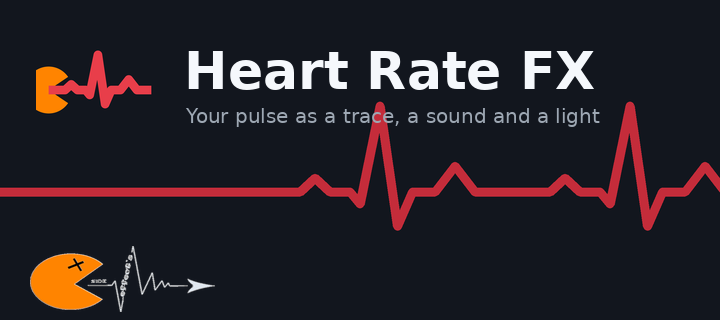
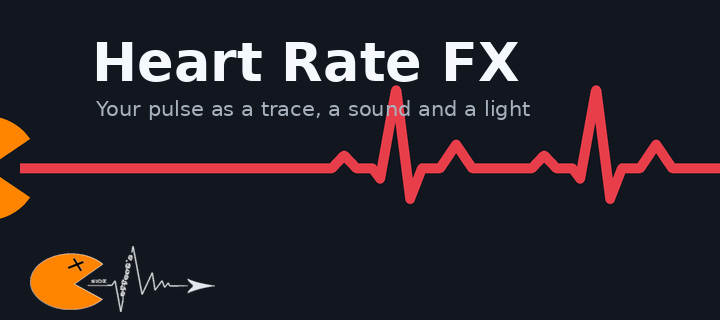
Let the Pac-Man's mouth feed the wave, and keep it to the tips
The icon showed most of the Pac-Man where a hint was wanted. It lies off
the left edge now, so only the two tips of its open mouth reach in, and
the heartbeat runs out from between them.

The banner drops its separate icon tile: the same mouth sits at the left
edge and the beat leaving it is the picture's one wave, across the full
width. The tips are kept small there, since the logo along the bottom
carries an orange Pac-Man of its own and two of them stacked read as a
muddle rather than a motif.

Both were chosen from rendered variants rather than decided here.

Claude-Session: https://claude.ai/code/session_014Dmfrpc6FA2NpaHJ2sp1gG

Changed region(s): [[0.0, 0.125, 1.0, 0.7188], [0.0, 0.375, 0.0611, 0.5]]

diff --git a/store/banner/make_banner.py b/store/banner/make_banner.py
@@ -3,9 +3,10 @@
 
     python3 store/banner/make_banner.py
 
-Dark ground, the heartbeat running across it, the app icon and title top left, and the
-SIDE effect's logo along the bottom. The wave is drawn oversized and reduced so it stays smooth,
-and its quiet stretch is put where the logo sits so the two never touch.
+One idea carries the picture: the heartbeat leaves the mouth of the SIDE effect's Pac-Man, which
+lies off the left edge so that only the two tips of its mouth reach in, and runs the full width as
+the main wave. No separate icon tile. The logo sits along the bottom, and the wave's quiet stretch
+is placed above it so the two never touch.
 """
 import math
 import os
@@ -17,11 +18,18 @@ ROOT = os.path.abspath(os.path.join(HERE, '..', '..'))
 W, H, SS = 720, 320, 3
 GROUND = (18, 22, 30)
 RED = (232, 62, 74)
-WAVE = (196, 44, 58)
+ORANGE = (255, 132, 0)
 WHITE = (245, 248, 252)
-GREY = (158, 168, 180)
+GREY = (168, 178, 190)
 LOGO_GREY = (225, 232, 240)
 LOGO_WIDTH = 185
+
+BASELINE = 168          # the mouth axis, and the line the wave rests on
+MOUTH_DEG = 34          # half angle of the open mouth
+MOUTH_TIP_X = 30        # how far the tips reach in: an accent, no more
+MOUTH_R = 52            # small enough that the tips do not compete with the logo's own Pac-Man
+WAVE_W = 10
+AMP = 78
 
 FONT_BOLD = '/usr/share/fonts/truetype/dejavu/DejaVuSans-Bold.ttf'
 FONT = '/usr/share/fonts/truetype/dejavu/DejaVuSans.ttf'
@@ -60,27 +68,28 @@ def main():
     im = Image.new('RGB', (W * SS, H * SS), GROUND)
     d = ImageDraw.Draw(im)
 
-    # Two beats across the picture, their flat stretch over the corner the logo will occupy.
-    baseline = int(H * 0.60) * SS
-    amp = 86 * SS
+    # The mouth the wave comes out of. Its centre lies off the picture; only the tips reach in.
+    cx = MOUTH_TIP_X - MOUTH_R * math.cos(math.radians(MOUTH_DEG))
+    box = [(cx - MOUTH_R) * SS, (BASELINE - MOUTH_R) * SS,
+           (cx + MOUTH_R) * SS, (BASELINE + MOUTH_R) * SS]
+    d.pieslice(box, start=MOUTH_DEG, end=360 - MOUTH_DEG, fill=ORANGE)
+
+    # One long wave out of the mouth: quiet, two beats, quiet again over the logo's corner.
+    start_x = MOUTH_TIP_X - 10
+    d.line([(start_x * SS, BASELINE * SS), (300 * SS, BASELINE * SS)], fill=RED, width=WAVE_W * SS)
     for beat in range(2):
-        x0 = (260 + beat * 250) * SS
-        x1 = x0 + 250 * SS
-        pts = [(x0 + (x1 - x0) * f, baseline + amp * v) for f, v in BEAT]
-        d.line(pts, fill=WAVE, width=9 * SS, joint='curve')
-    d.line([(0, baseline), (260 * SS, baseline)], fill=WAVE, width=9 * SS)
-    d.line([(760 * SS, baseline), (W * SS, baseline)], fill=WAVE, width=9 * SS)
+        x0 = (300 + beat * 200) * SS
+        x1 = x0 + 200 * SS
+        pts = [(x0 + (x1 - x0) * f, BASELINE * SS + AMP * SS * v) for f, v in BEAT]
+        d.line(pts, fill=RED, width=WAVE_W * SS, joint='curve')
+    d.line([(700 * SS, BASELINE * SS), (W * SS, BASELINE * SS)], fill=RED, width=WAVE_W * SS)
 
     im = im.resize((W, H), Image.LANCZOS)
     d = ImageDraw.Draw(im)
 
-    icon = Image.open(os.path.join(ROOT, 'store', 'icon', 'icon_master.png')).convert('RGBA')
-    icon = icon.resize((120, 120), Image.LANCZOS)
-    im.paste(icon, (36, 30), icon)
-
-    d.text((184, 40), 'Heart Rate FX', font=ImageFont.truetype(FONT_BOLD, 52), fill=WHITE)
-    d.text((186, 104), 'Your pulse as a trace, a sound and a light',
-           font=ImageFont.truetype(FONT, 20), fill=GREY)
+    d.text((92, 30), 'Heart Rate FX', font=ImageFont.truetype(FONT_BOLD, 54), fill=WHITE)
+    d.text((96, 96), 'Your pulse as a trace, a sound and a light',
+           font=ImageFont.truetype(FONT, 21), fill=GREY)
 
     logo = prepare_logo()
     im.paste(logo, (30, H - logo.height - 8), logo)

diff --git a/store/icon/make_icons.py b/store/icon/make_icons.py
@@ -19,8 +19,12 @@ DARK = (18, 22, 30)
 RED = (232, 62, 74)
 ORANGE = (255, 132, 0)
 
-PAC_X, PAC_Y, PAC_R = 108, 512, 200      # Pac-Man, cropped by the left edge: a nod, not the subject
+# The Pac-Man lies almost entirely outside the picture. Only the two tips of its open mouth reach
+# in from the left, as an accent; MOUTH_TIP_X says how far.
+PAC_Y, PAC_R = 512, 360
 PAC_MOUTH_DEG = 34                       # half angle of the open mouth
+MOUTH_TIP_X = 110
+PAC_X = MOUTH_TIP_X - PAC_R * math.cos(math.radians(PAC_MOUTH_DEG))
 LINE_W = 74                              # thickness of the heartbeat line
 
 # One P-QRS-T complex as fractions of the run, and of the amplitude.
@@ -41,7 +45,7 @@ def draw(size=M, background=DARK, pac=True, line=RED, transparent=False, weight=
         d.pieslice(box, start=PAC_MOUTH_DEG, end=360 - PAC_MOUTH_DEG,
                    fill=(line if transparent else ORANGE))
 
-    x0 = (PAC_X if pac else 60) * k
+    x0 = ((MOUTH_TIP_X - 14) if pac else 60) * k
     x1 = (M - 40) * k
     amp = 300 * k
     pts = [(x0 + (x1 - x0) * f, PAC_Y * k + amp * v) for f, v in BEAT]
